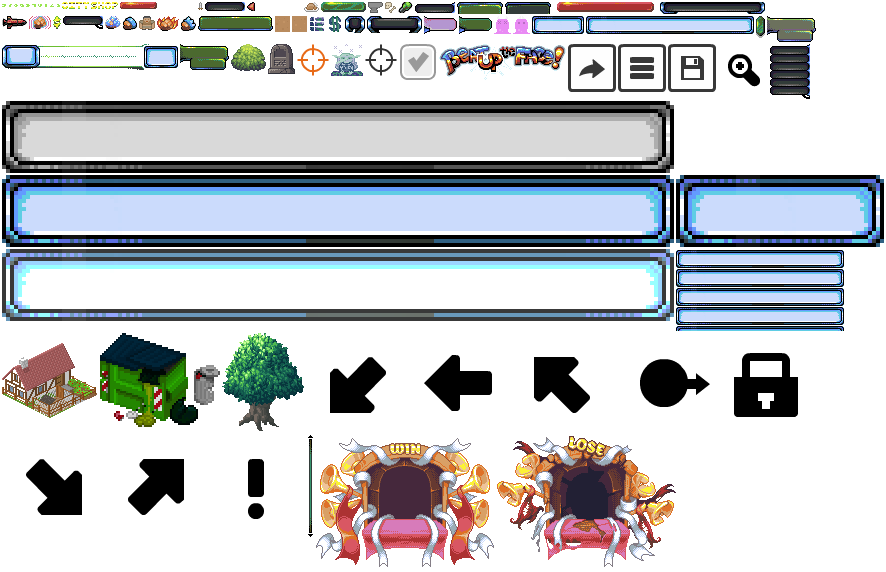
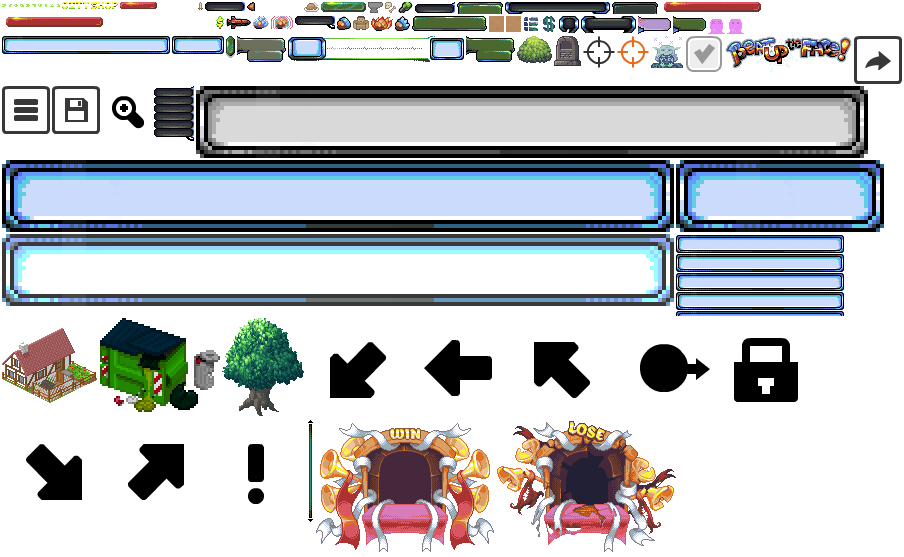
update progressbar backgrounds to be centered
note they still depend on beatup's directory

diff --git a/Classes/Fighter.cpp b/Classes/Fighter.cpp
@@ -71,7 +71,9 @@ FighterNode* FighterNode::create(spFighter fighter)
     });
 
     //hp bar
-    node->hp_bar = std::make_shared<ProgressBar>("enemy_healthbar_bar.png", "enemy_healthbar_bar_white.png");
+    std::string frontbar_path = "enemy_healthbar_bar_centered.png";
+    std::string backbar_path = "enemy_healthbar_bar_white_centered.png";
+    node->hp_bar = std::make_shared<ProgressBar>(frontbar_path, backbar_path);
     node->hp_bar->back_timer->setVisible(false);
     node->hp_bar->setPosition(Vec2(0, 0));
     node->hp_bar->setAnchorPoint(Vec2(0.5, 0.5));
@@ -83,7 +85,7 @@ FighterNode* FighterNode::create(spFighter fighter)
     node->addChild(node->hp_bar->base_node);
 
     //xp bar
-    node->xp_bar = std::make_shared<ProgressBar>("enemy_healthbar_bar.png", "enemy_healthbar_bar_white.png");
+    node->xp_bar = std::make_shared<ProgressBar>(frontbar_path, backbar_path);
     node->xp_bar->back_timer->setVisible(false);
     node->xp_bar->setPosition(Vec2(0, -25));
     node->xp_bar->setAnchorPoint(Vec2(0.5, 0.5));
